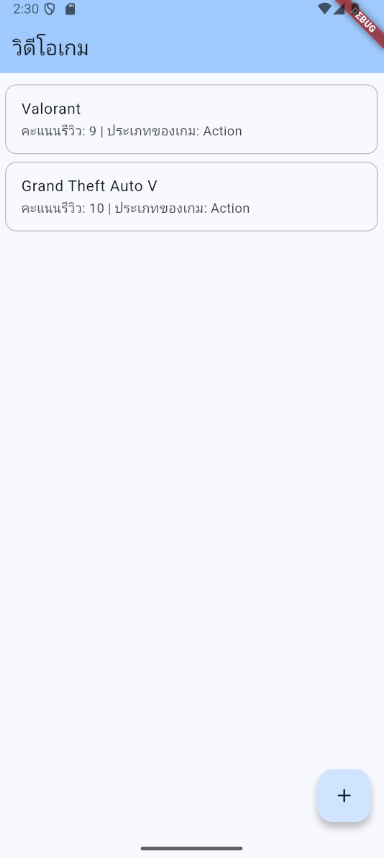
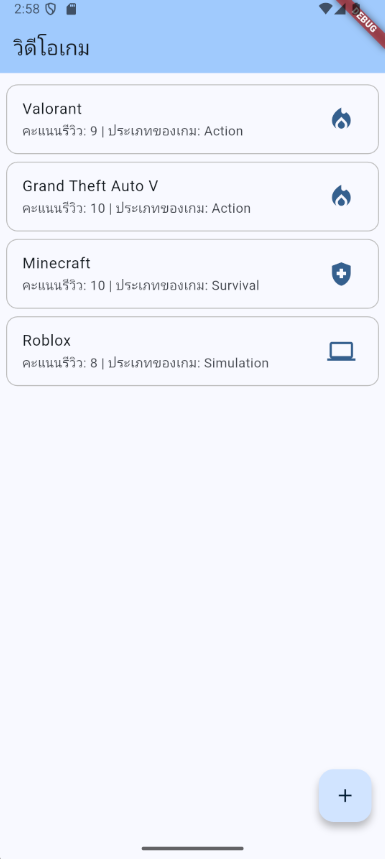
videogame

diff --git a/lib/main.dart b/lib/main.dart
@@ -73,6 +73,57 @@ class HomePage extends StatefulWidget {
 class _HomePageState extends State<HomePage> {
   final List<VideoGame> games = [];
 
+  IconData _getGenreIcon(String genre) {
+    switch (genre) {
+      case 'Action':
+        return Icons.local_fire_department;
+      case 'Adventure':
+        return Icons.explore;
+      case 'Sports':
+        return Icons.sports_soccer;
+      case 'Simulation':
+        return Icons.computer;
+      case 'Platformer':
+        return Icons.run_circle;
+      case 'RPG':
+        return Icons.shield;
+      case 'First Person Shooter':
+        return Icons.remove_red_eye;
+      case 'Action-Adventure':
+        return Icons.directions_run;
+      case 'Fighting':
+        return Icons.sports_mma;
+      case 'Real-Time Strategy':
+        return Icons.hourglass_top;
+      case 'Racing':
+        return Icons.directions_car;
+      case 'Shooter':
+        return Icons.gps_fixed;
+      case 'Puzzle':
+        return Icons.extension;
+      case 'Casual':
+        return Icons.tag_faces;
+      case 'Strategy':
+        return Icons.account_tree;
+      case 'MMORPG':
+        return Icons.group;
+      case 'Stealth':
+        return Icons.visibility_off;
+      case 'Party':
+        return Icons.celebration;
+      case 'Action RPG':
+        return Icons.bolt;
+      case 'Tactical RPG':
+        return Icons.account_tree;
+      case 'Survival':
+        return Icons.health_and_safety;
+      case 'Battle Royale':
+        return Icons.person_pin_circle;
+      default:
+        return Icons.videogame_asset;
+    }
+  }
+
   @override
   Widget build(BuildContext context) {
     // This method is rerun every time setState is called, for instance as done
@@ -112,7 +163,12 @@ class _HomePageState extends State<HomePage> {
                             content: Text('${game.title} ถูกลบออกเรียบร้อย')),
                       );
                     },
-                    background: Container(color: Colors.red),
+                    background: Container(
+                      color: Colors.red,
+                      padding: const EdgeInsets.symmetric(horizontal: 20),
+                      alignment: Alignment.centerRight,
+                      child: const Icon(Icons.delete, color: Colors.white),
+                    ),
                     child: Container(
                       margin: const EdgeInsets.symmetric(vertical: 4.0),
                       decoration: BoxDecoration(
@@ -126,6 +182,11 @@ class _HomePageState extends State<HomePage> {
                         title: Text(game.title),
                         subtitle: Text(
                             'คะแนนรีวิว: ${game.rating} | ประเภทของเกม: ${game.genre}'),
+                        trailing: Icon(
+                          _getGenreIcon(game.genre),
+                          color: Theme.of(context).colorScheme.primary,
+                          size: 30,
+                        ),
                       ),
                     ),
                   );
